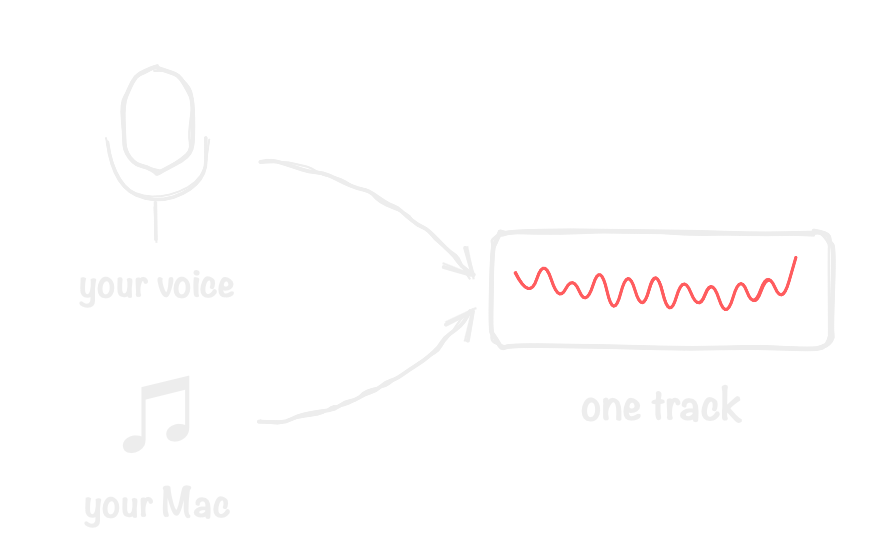
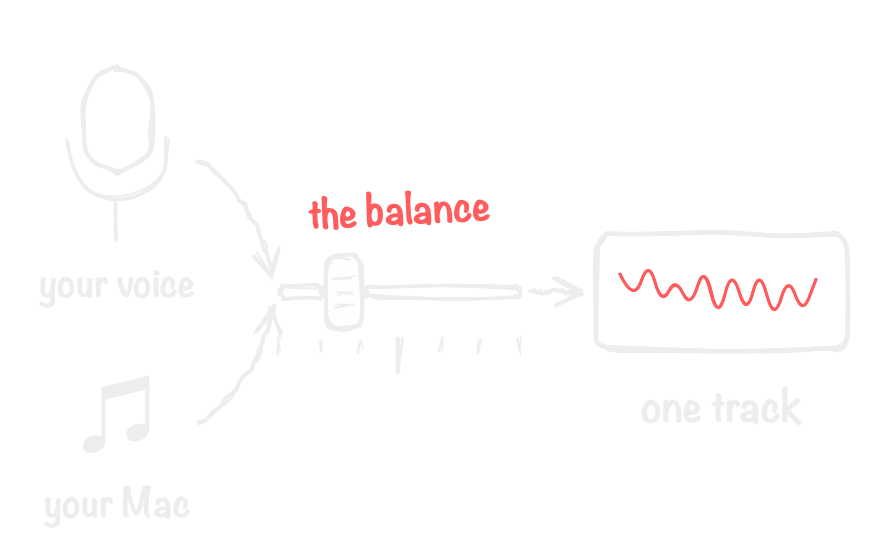
README: the fader in the audio drawing, and a question about loud videos

Changed region(s): [[0.583, 0.4554, 0.9205, 0.5768], [0.3375, 0.3339, 0.5523, 0.425]]

diff --git a/Tests/MacMonologueTests/ReadmeArt/Motifs.swift b/Tests/MacMonologueTests/ReadmeArt/Motifs.swift
@@ -369,21 +369,44 @@ enum ReadmeArt {
 
     static let audio = Motif(name: "audio", size: CGSize(width: 440, height: 280), seed: 43) { s, _ in
         // A microphone
-        let head = CGRect(x: 62, y: 34, width: 34, height: 52)
+        let head = CGRect(x: 42, y: 34, width: 34, height: 52)
         s.rect(head, radius: 17, width: 2.2)
-        s.stroke([CGPoint(x: 54, y: 70), CGPoint(x: 56, y: 92), CGPoint(x: 79, y: 102),
-                  CGPoint(x: 102, y: 92), CGPoint(x: 104, y: 70)], width: 1.8)
-        s.line(CGPoint(x: 79, y: 102), CGPoint(x: 79, y: 120), width: 1.8)
-        s.text("your voice", at: CGPoint(x: 79, y: 140), font: Hand.bold(18))
+        s.stroke([CGPoint(x: 34, y: 70), CGPoint(x: 36, y: 92), CGPoint(x: 59, y: 102),
+                  CGPoint(x: 82, y: 92), CGPoint(x: 84, y: 70)], width: 1.8)
+        s.line(CGPoint(x: 59, y: 102), CGPoint(x: 59, y: 120), width: 1.8)
+        s.text("your voice", at: CGPoint(x: 59, y: 140), font: Hand.bold(18))
 
         // Music, or a video playing on screen
-        s.text("♫", at: CGPoint(x: 80, y: 206), font: .system(size: 44), color: s.ink.line)
-        s.text("your Mac", at: CGPoint(x: 79, y: 250), font: Hand.bold(18))
+        s.text("♫", at: CGPoint(x: 60, y: 206), font: .system(size: 44), color: s.ink.line)
+        s.text("your Mac", at: CGPoint(x: 59, y: 250), font: Hand.bold(18))
 
-        // Both into one track
-        s.arrow(from: CGPoint(x: 130, y: 80), to: CGPoint(x: 236, y: 138), bend: -0.2)
-        s.arrow(from: CGPoint(x: 130, y: 212), to: CGPoint(x: 236, y: 156), bend: 0.2)
-        let track = CGRect(x: 246, y: 116, width: 170, height: 58)
+        // Both through one fader: a rail, a cap, the centre marked.
+        let rail = CGRect(x: 140, y: 143, width: 120, height: 6)
+        let cap = CGRect(x: rail.midX - 36, y: rail.midY - 18, width: 16, height: 36)
+        // The rail stops at the cap, which sits on top of it.
+        s.rect(CGRect(x: rail.minX, y: rail.minY, width: cap.minX - 3 - rail.minX, height: rail.height),
+               radius: 3, width: 1.8)
+        s.rect(CGRect(x: cap.maxX + 3, y: rail.minY, width: rail.maxX - cap.maxX - 3, height: rail.height),
+               radius: 3, width: 1.8)
+        for index in 0..<7 {
+            let x = rail.minX + rail.width * CGFloat(index) / 6
+            let centre = index == 3
+            s.line(CGPoint(x: x, y: cap.maxY + 6), CGPoint(x: x, y: cap.maxY + (centre ? 22 : 12)),
+                   width: centre ? 2.4 : 1.2)
+        }
+        s.context.fill(Path(roundedRect: cap, cornerRadius: 4), with: .color(s.ink.line.opacity(0.06)))
+        s.rect(cap, radius: 4, width: 2.2)
+        for dy in [-7.0, 0.0, 7.0] {
+            s.line(CGPoint(x: cap.minX + 4, y: cap.midY + dy), CGPoint(x: cap.maxX - 4, y: cap.midY + dy), width: 1.2)
+        }
+        s.text("the balance", at: CGPoint(x: rail.midX, y: rail.minY - 40), font: Hand.bold(19),
+               color: s.ink.accent, angle: .degrees(-3))
+        s.arrow(from: CGPoint(x: 100, y: 80), to: CGPoint(x: rail.minX - 4, y: rail.midY - 8), bend: -0.2)
+        s.arrow(from: CGPoint(x: 100, y: 212), to: CGPoint(x: rail.minX - 4, y: rail.midY + 8), bend: 0.2)
+
+        // Into one track
+        s.arrow(from: CGPoint(x: rail.maxX + 6, y: rail.midY), to: CGPoint(x: 290, y: rail.midY), bend: 0)
+        let track = CGRect(x: 298, y: 117, width: 126, height: 58)
         s.rect(track, radius: 8, width: 2.4)
         var shape = SeededRandom(99)
         var points: [CGPoint] = []

diff --git a/README.md b/README.md
@@ -160,7 +160,7 @@
     <td width="50%">
       <picture>
         <source media="(prefers-color-scheme: dark)" srcset="docs/images/audio-dark.png">
-        <img src="docs/images/audio-light.png" alt="A microphone and the Mac's own sound, flowing into one track">
+        <img src="docs/images/audio-light.png" alt="A microphone and the Mac's own sound, through one fader, into one track">
       </picture>
     </td>
   </tr>
@@ -321,6 +321,15 @@ An iPhone used as a camera needs to be nearby and unlocked.
 <summary><b>Can I change the shortcuts?</b></summary>
 <br>
 Yes, in <i>Settings › Shortcuts</i> - the drawing there shows where your fingers go.
+</details>
+
+<details>
+<summary><b>The video I play drowns out my voice.</b></summary>
+<br>
+Slide the fader under the preview towards <b>Voice</b> - the Mac gets quieter, your
+voice stays as it is. It works while you record, too. Or switch on <i>Lower Mac sound
+while I talk</i>, next to the fader or in <i>Settings › Recording</i>, and the Mac gets
+quieter whenever you speak.
 </details>
 
 <details>
